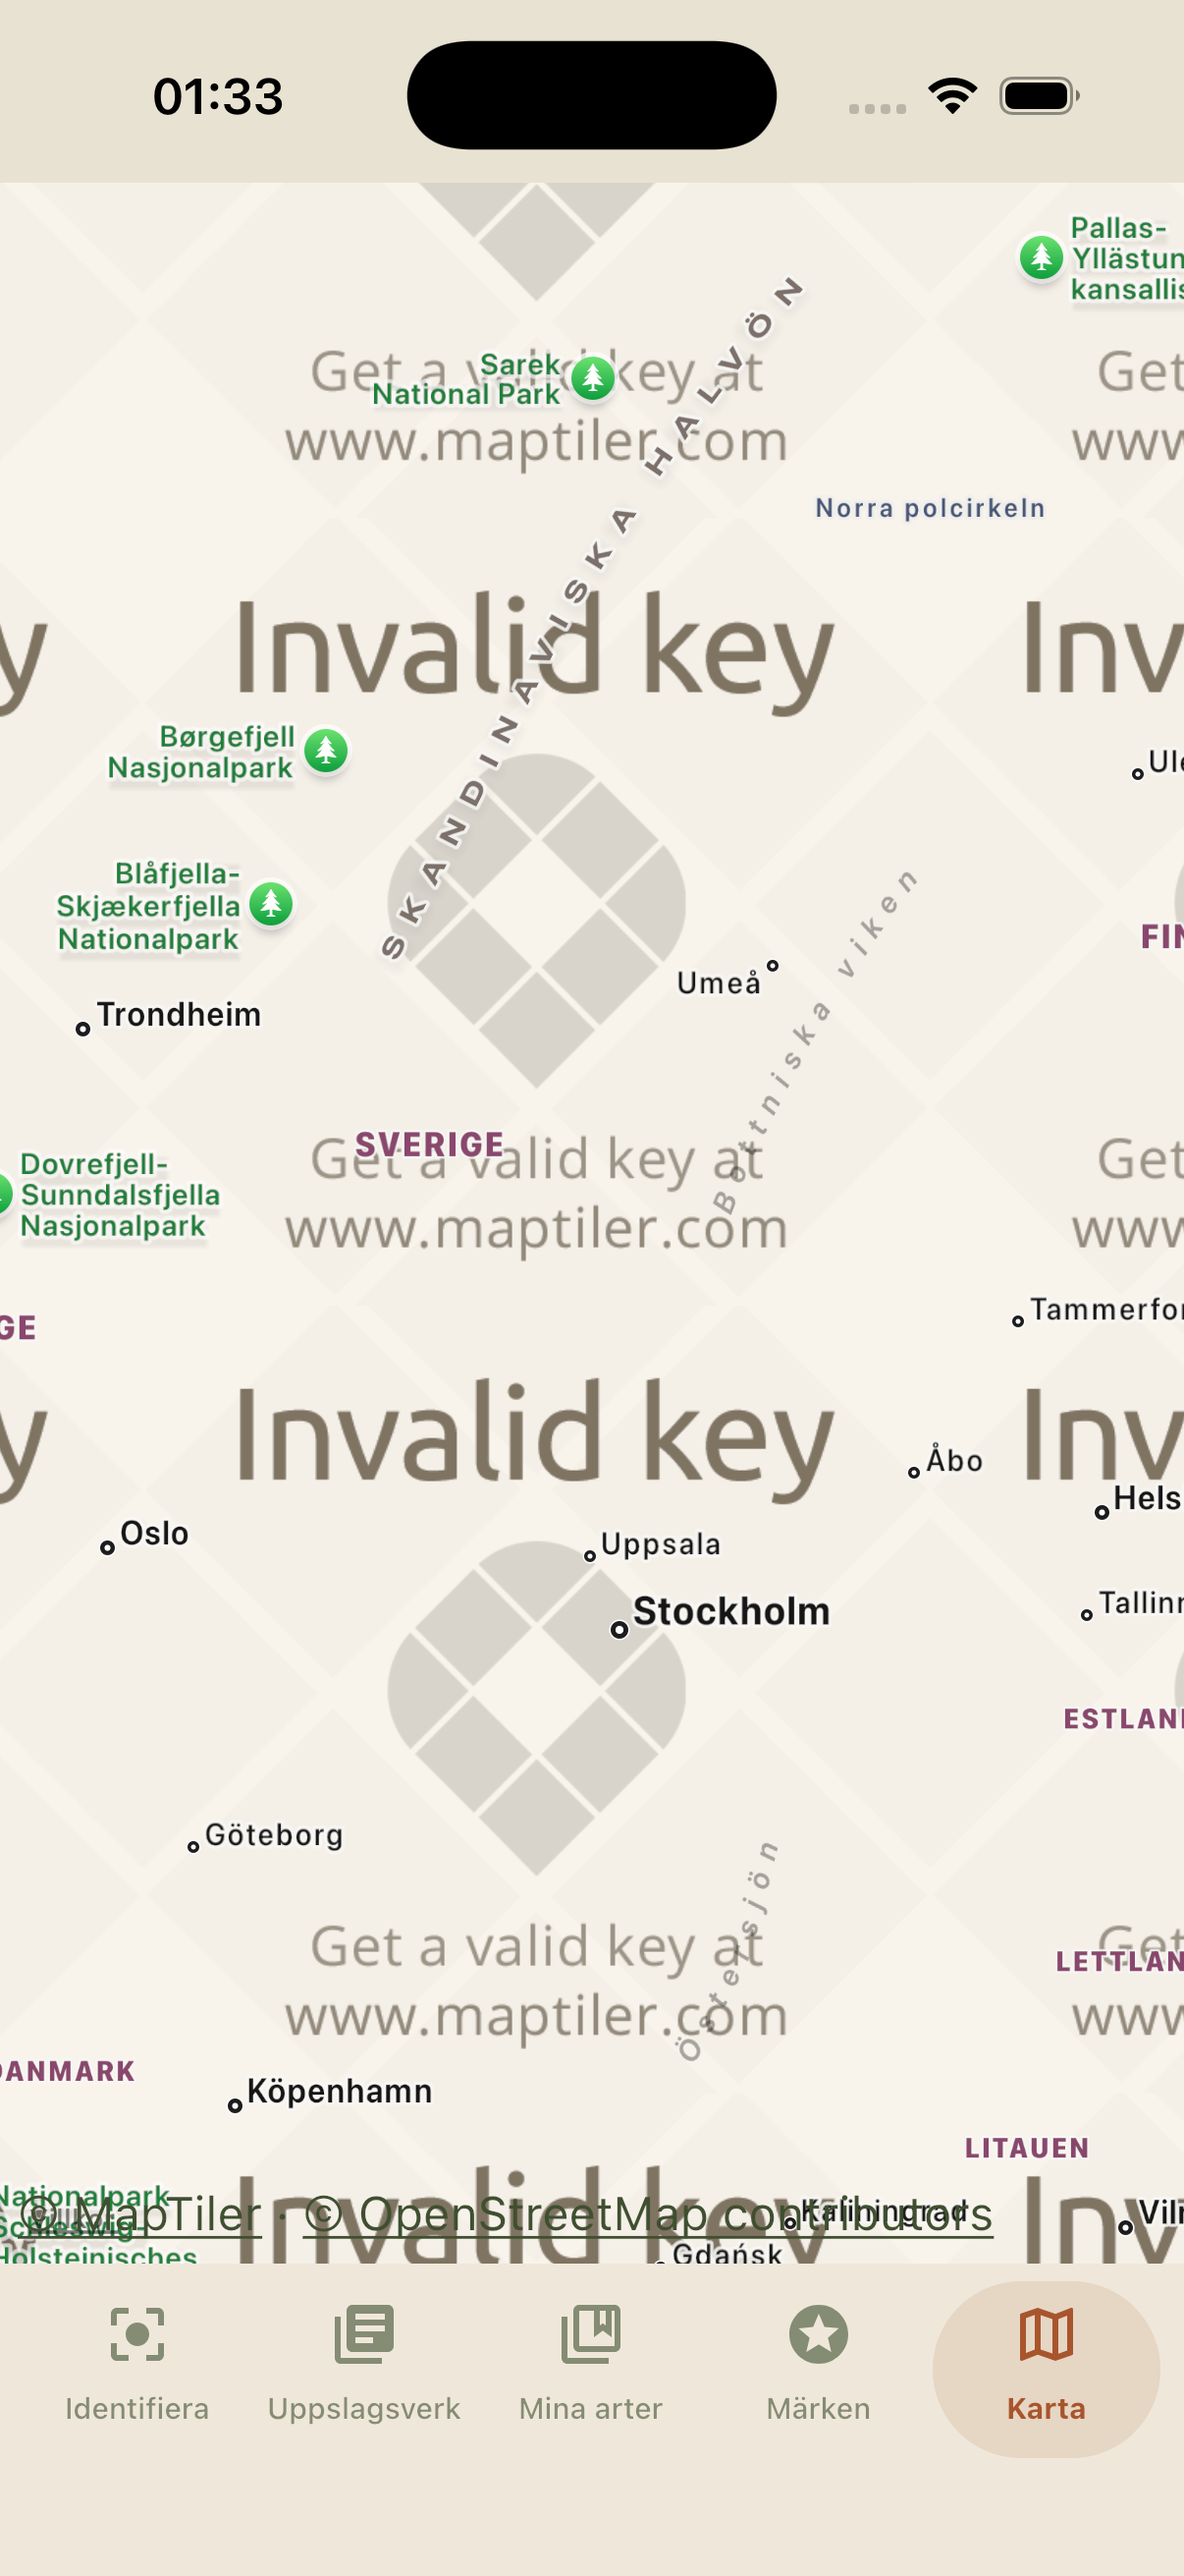
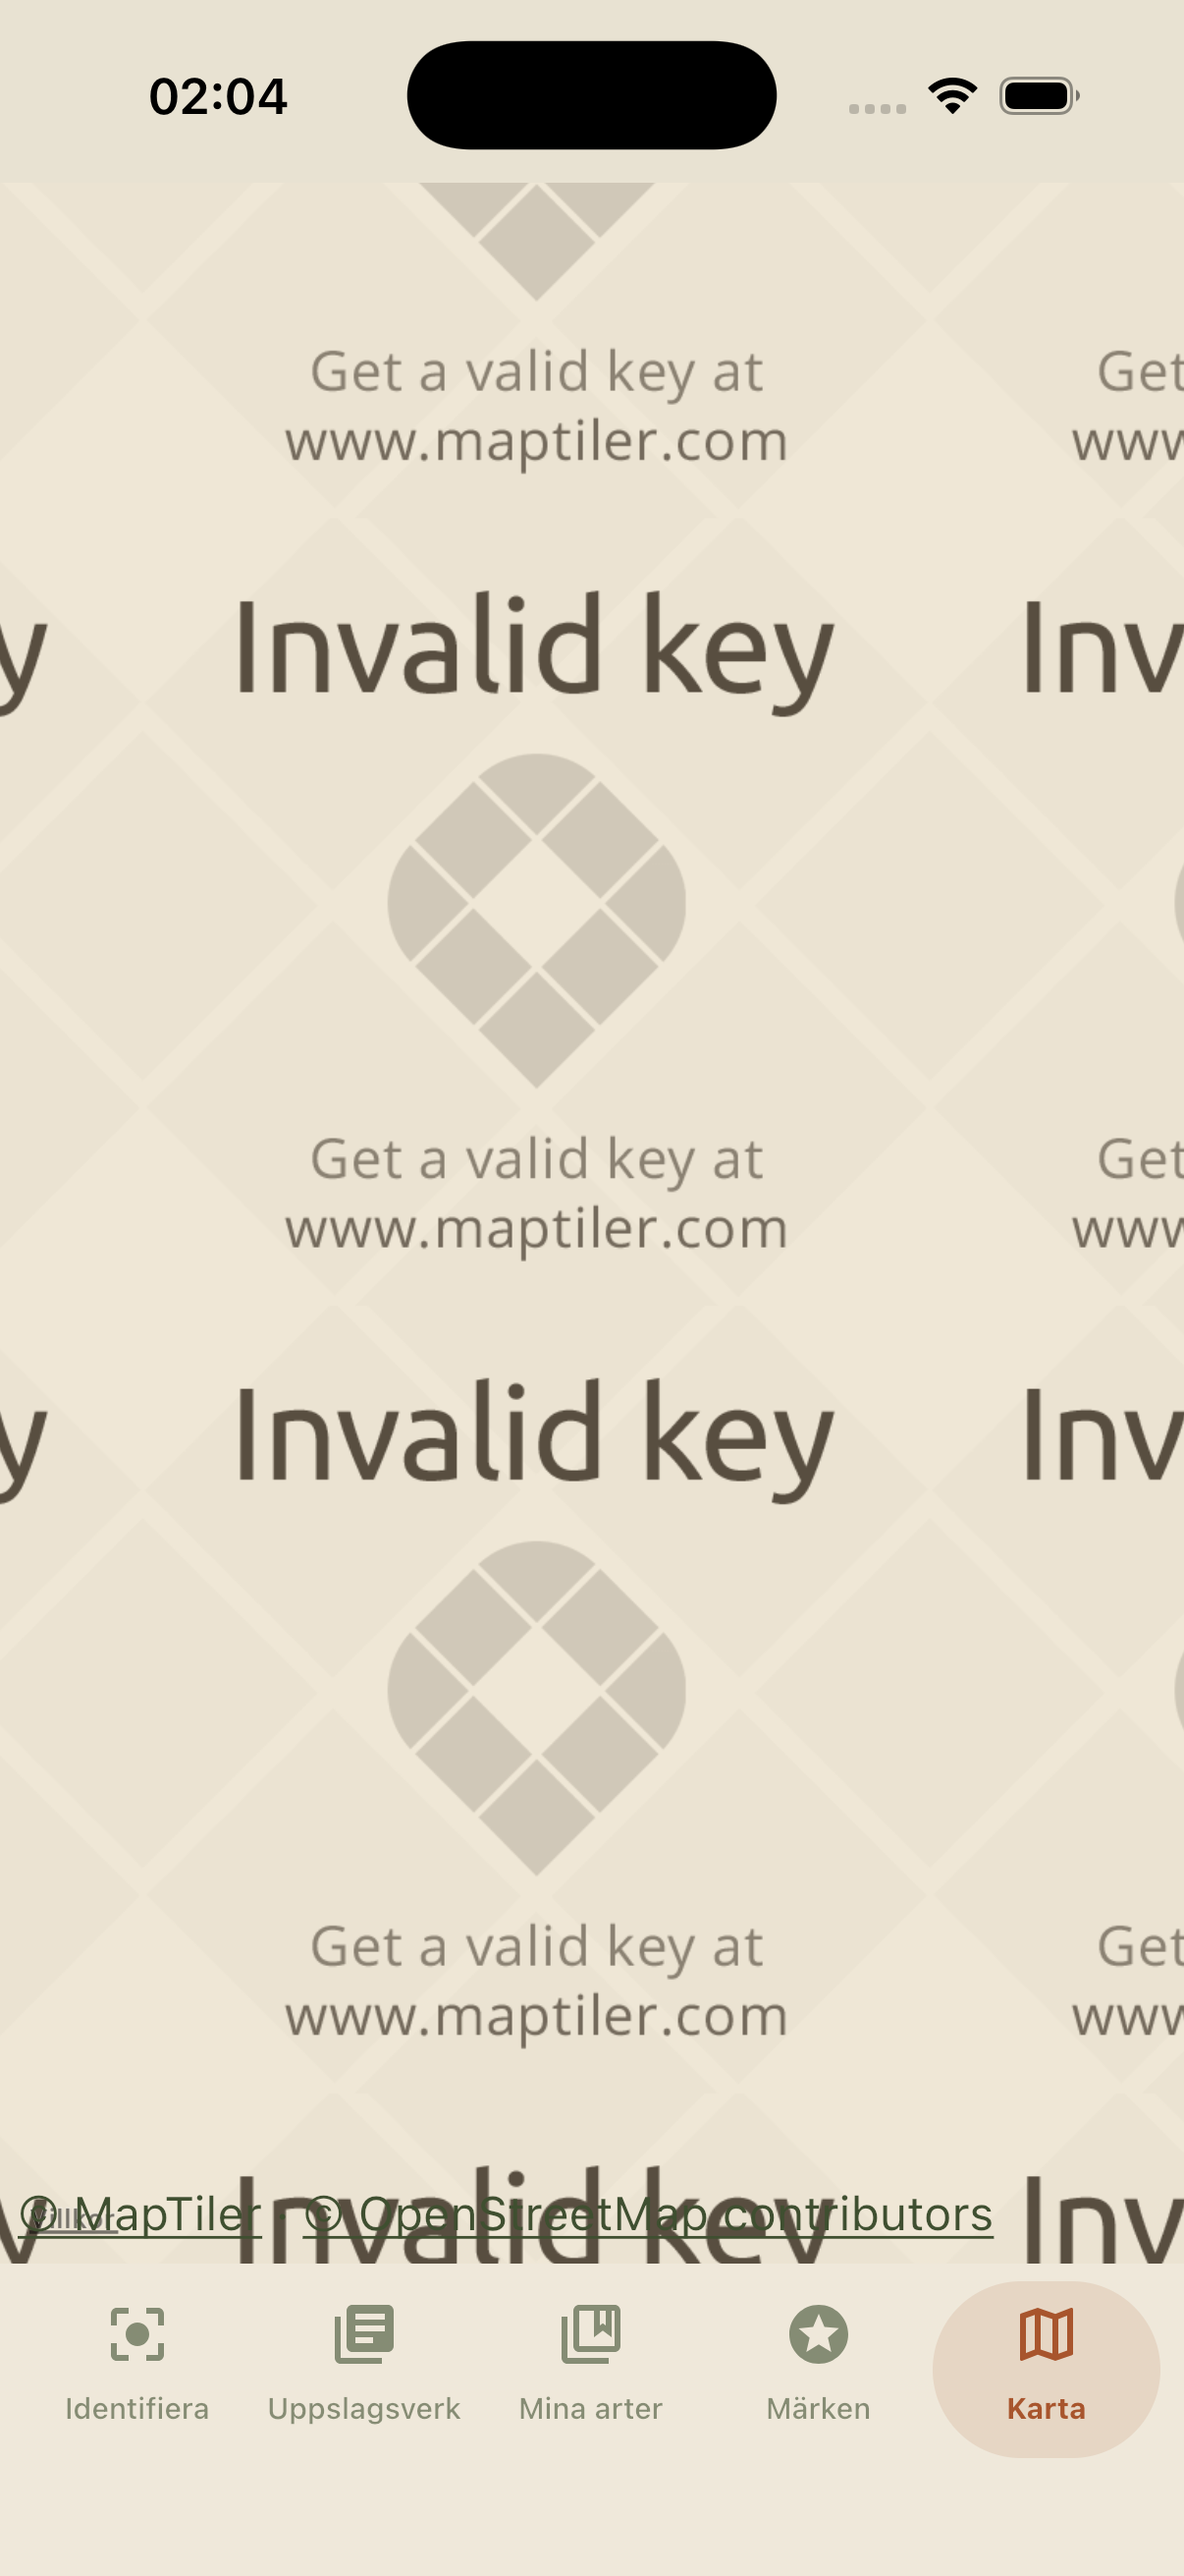
fix(ios): i4 T4 review — overlay AboveLabels + POI-filter, nyckel-hoist + debug-gate:ad tile-logg, CIContext utan linjär arbetsfärgrymd (Android-gamma-paritet)
Claude-Session: https://claude.ai/code/session_01NBa5UqDWofWncjc1jDhUzs

diff --git a/composeApp/src/iosMain/kotlin/se/birdy/app/ui/map/IosTileFetcher.kt b/composeApp/src/iosMain/kotlin/se/birdy/app/ui/map/IosTileFetcher.kt
@@ -9,10 +9,12 @@ import platform.CoreImage.CIImage
 import platform.CoreImage.CIVector
 import platform.CoreImage.createCGImage
 import platform.CoreImage.filterWithName
+import platform.CoreImage.kCIContextWorkingColorSpace
 import platform.Foundation.NSCachesDirectory
 import platform.Foundation.NSData
 import platform.Foundation.NSError
 import platform.Foundation.NSLog
+import platform.Foundation.NSNull
 import platform.Foundation.NSSearchPathForDirectoriesInDomains
 import platform.Foundation.NSURL
 import platform.Foundation.NSURLCache
@@ -24,6 +26,8 @@ import platform.Foundation.setValue
 import platform.UIKit.UIImage
 import platform.UIKit.UIImagePNGRepresentation
 import se.birdy.app.ui.photoanalyze.uiImageFromDataOrNull
+import kotlin.experimental.ExperimentalNativeApi
+import kotlin.native.Platform
 
 /**
  * Kotlin-halvan av MapKit-tile-bron. K/N kan INTE subklassa `MKTileOverlay` —
@@ -57,30 +61,49 @@ object IosTileFetcher {
             },
         )
 
-    // En delad CIContext — dyr att skapa, trådsäker att använda. Vektorerna beror bara på
-    // MapTileTheme-konstanterna, så de räknas ut en gång och återanvänds för varje tile.
-    private val ciContext = CIContext()
+    // En delad CIContext — dyr att skapa, trådsäker att använda. `kCIContextWorkingColorSpace
+    // to NSNull()` stänger av Core Images DEFAULT ljus-linjära arbetsfärgrymd: utan detta
+    // konverterar CIColorMatrix-filtret till linjärt ljus FÖRE matrisen appliceras, medan
+    // Androids ColorMatrixColorFilter (samma matris, se MapTileTheme) applicerar direkt på
+    // gamma-kodade sRGB-byte — samma koefficienter gav därför synbart mörkare mellantoner på
+    // iOS än på Android (T4-review, 2026-08-17). NSNull som värde är CoreImages dokumenterade
+    // sätt att be om "ingen färgrymds-hantering, kör i tilens egen kodade rymd" — matchar nu
+    // Android-gamma-parititeten. Vektorerna beror bara på MapTileTheme-konstanterna, så de
+    // räknas ut en gång och återanvänds för varje tile.
+    private val ciContext = CIContext.contextWithOptions(mapOf(kCIContextWorkingColorSpace to NSNull()))
     private val vectors = ciVectorsFrom(MapTileTheme.duotoneMatrix(MapTileTheme.INK, MapTileTheme.PAPER))
+
+    // Löses EN gång per process, inte per tile: MapTilerKey.value() gör en Info.plist-lookup
+    // + loggar en "saknas"-varning per anrop, och en enda pan/zoom kan begära dussintals tiles
+    // direkt (T4-review, 2026-08-17 — förra rundans skärmdump gav 24 identiska varningsrader
+    // för EN statisk viewport).
+    private val apiKey: String by lazy { MapTilerKey.value() }
 
     /**
      * Hämtar + tintar tilen på `z/x/y`. Anropas av `BirdyTileOverlay.swift`s
      * `loadTile(at:result:)` — samma completion-kontrakt som `MKTileOverlay` förväntar sig
      * (`Data?`/`Error?`), så Swift-sidan kan vidarebefordra `completion` rakt av.
      */
+    @OptIn(ExperimentalNativeApi::class)
     fun fetch(
         z: Long,
         x: Long,
         y: Long,
         completion: (NSData?, NSError?) -> Unit,
     ) {
-        val apiKey = MapTilerKey.value()
         val url = NSURL.URLWithString(mapTilerTileUrl(z = z, x = x, y = y, apiKey = apiKey))
         if (url == null) {
             completion(null, null)
             return
         }
-        // Enda arg-formen (ingen "%@" + vararg) — se MapTilerKey.ios.kt-kommentaren för varför.
-        NSLog("Birdy/map: fetching tile z=$z x=$x y=$y")
+        if (Platform.isDebugBinary) {
+            // Enda arg-formen (ingen "%@" + vararg) — se MapTilerKey.ios.kt-kommentaren för
+            // varför. Debug-gate:ad (samma mönster som IosAppGraph.kt:s audio-degrade-logg):
+            // release ska inte logga VARJE tile av VARJE pan/zoom för alltid — det läcker
+            // viewport-koordinater till systemloggen utan att fylla något syfte i produktion
+            // (T4-review, 2026-08-17). Sim/device-debugging behåller bevisspåret.
+            NSLog("Birdy/map: fetching tile z=$z x=$x y=$y")
+        }
         session
             .dataTaskWithURL(url) { data, _, error ->
                 if (data == null) {

diff --git a/composeApp/src/iosMain/kotlin/se/birdy/app/ui/map/MapScreenHost.ios.kt b/composeApp/src/iosMain/kotlin/se/birdy/app/ui/map/MapScreenHost.ios.kt
@@ -12,9 +12,11 @@ import platform.CoreLocation.CLLocationCoordinate2DMake
 import platform.Foundation.NSLog
 import platform.MapKit.MKMapView
 import platform.MapKit.MKMapViewDelegateProtocol
+import platform.MapKit.MKOverlayLevelAboveLabels
 import platform.MapKit.MKOverlayProtocol
 import platform.MapKit.MKOverlayRenderer
 import platform.MapKit.MKPointAnnotation
+import platform.MapKit.MKPointOfInterestFilter
 import platform.MapKit.MKTileOverlay
 import platform.MapKit.MKTileOverlayRenderer
 import platform.MapKit.addOverlay
@@ -31,6 +33,14 @@ import platform.darwin.NSObject
  * med en `MKTileOverlayRenderer` ritas ingenting. Delegaten hålls i en egen [remember] eftersom
  * `MKMapView.delegate` är weak (ObjC-konvention) — utan en stark Kotlin-referens skulle den
  * deallokeras direkt.
+ *
+ * **Rättelse (T4-review, 2026-08-17):** `addOverlay(overlay)` (utan `level`) lägger overlayn på
+ * default-nivån `MKOverlayLevelAboveRoads`, som ligger UNDER Apples etikett-/POI-lager — den
+ * första riskgrind-skärmdumpen visade device-lokaliserade stadsnamn/parkbadges/landsgränser
+ * (Apples lager, inte vårt) rakt igenom de duotone-tintade tilesen, vilket lästes fel som
+ * "tile-innehåll" i förra rapportrundan. Fixat med `MKOverlayLevelAboveLabels` (ritar overlayn
+ * OVANPÅ Apples lager) + `pointOfInterestFilter = excludingAll` (bälte-och-hängslen: döljer
+ * POI-lagret helt, oavsett nivå).
  */
 @Composable
 actual fun MapScreenHost(
@@ -43,6 +53,9 @@ actual fun MapScreenHost(
         remember {
             MKMapView().apply {
                 delegate = birdyDelegate
+                // Bälte-och-hängslen mot Apples POI-lager (se klass-KDoc:en ovan) — oavsett
+                // overlay-nivå ska Apple-badges/POI-ikoner aldrig synas på den här kartan.
+                pointOfInterestFilter = MKPointOfInterestFilter.filterExcludingAllCategories
                 val overlay = IosMapOverlayBridge.overlayFactory?.invoke()
                 if (overlay == null) {
                     // Enda arg-formen (ingen "%@" + vararg) — K/N:s NSLog-vararg-marshaling av en
@@ -53,7 +66,8 @@ actual fun MapScreenHost(
                             "— saknas registreringen i iOSApp.swift?) — visar Apples baskarta",
                     )
                 } else {
-                    addOverlay(overlay)
+                    // AboveLabels (inte default AboveRoads) — se klass-KDoc:en ovan för varför.
+                    addOverlay(overlay, level = MKOverlayLevelAboveLabels)
                 }
             }
         }
